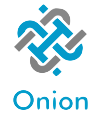
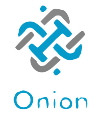
initial commit of first project

diff --git a/onion.css b/onion.css
@@ -42,12 +42,13 @@
 
 .onion-logo {
 	background: url(onion.png) 50% 0 no-repeat;
-	background-size: 32px 59px;
-	width: 40px;
-	height:  100%;
-	position: absolute;
-	top: 21px;
-	left: 460px;
+	background-size: 59px 59px;
+	height:  60px;
+	width: 70px;
+	position: fixed;
+	padding-left: 45%;
+	padding-right: 45%
+	
 }
 
 html, body {

diff --git a/onion.html b/onion.html
@@ -11,7 +11,6 @@
 					<div class="container">
 						<div class="onion-logo"> </div>			
 						<span class="logo"><a href="#">Menu</a></span>
-						
 							<ul>
 								<li><a href="index.html">ABOUT</a></li>
 							</ul>
